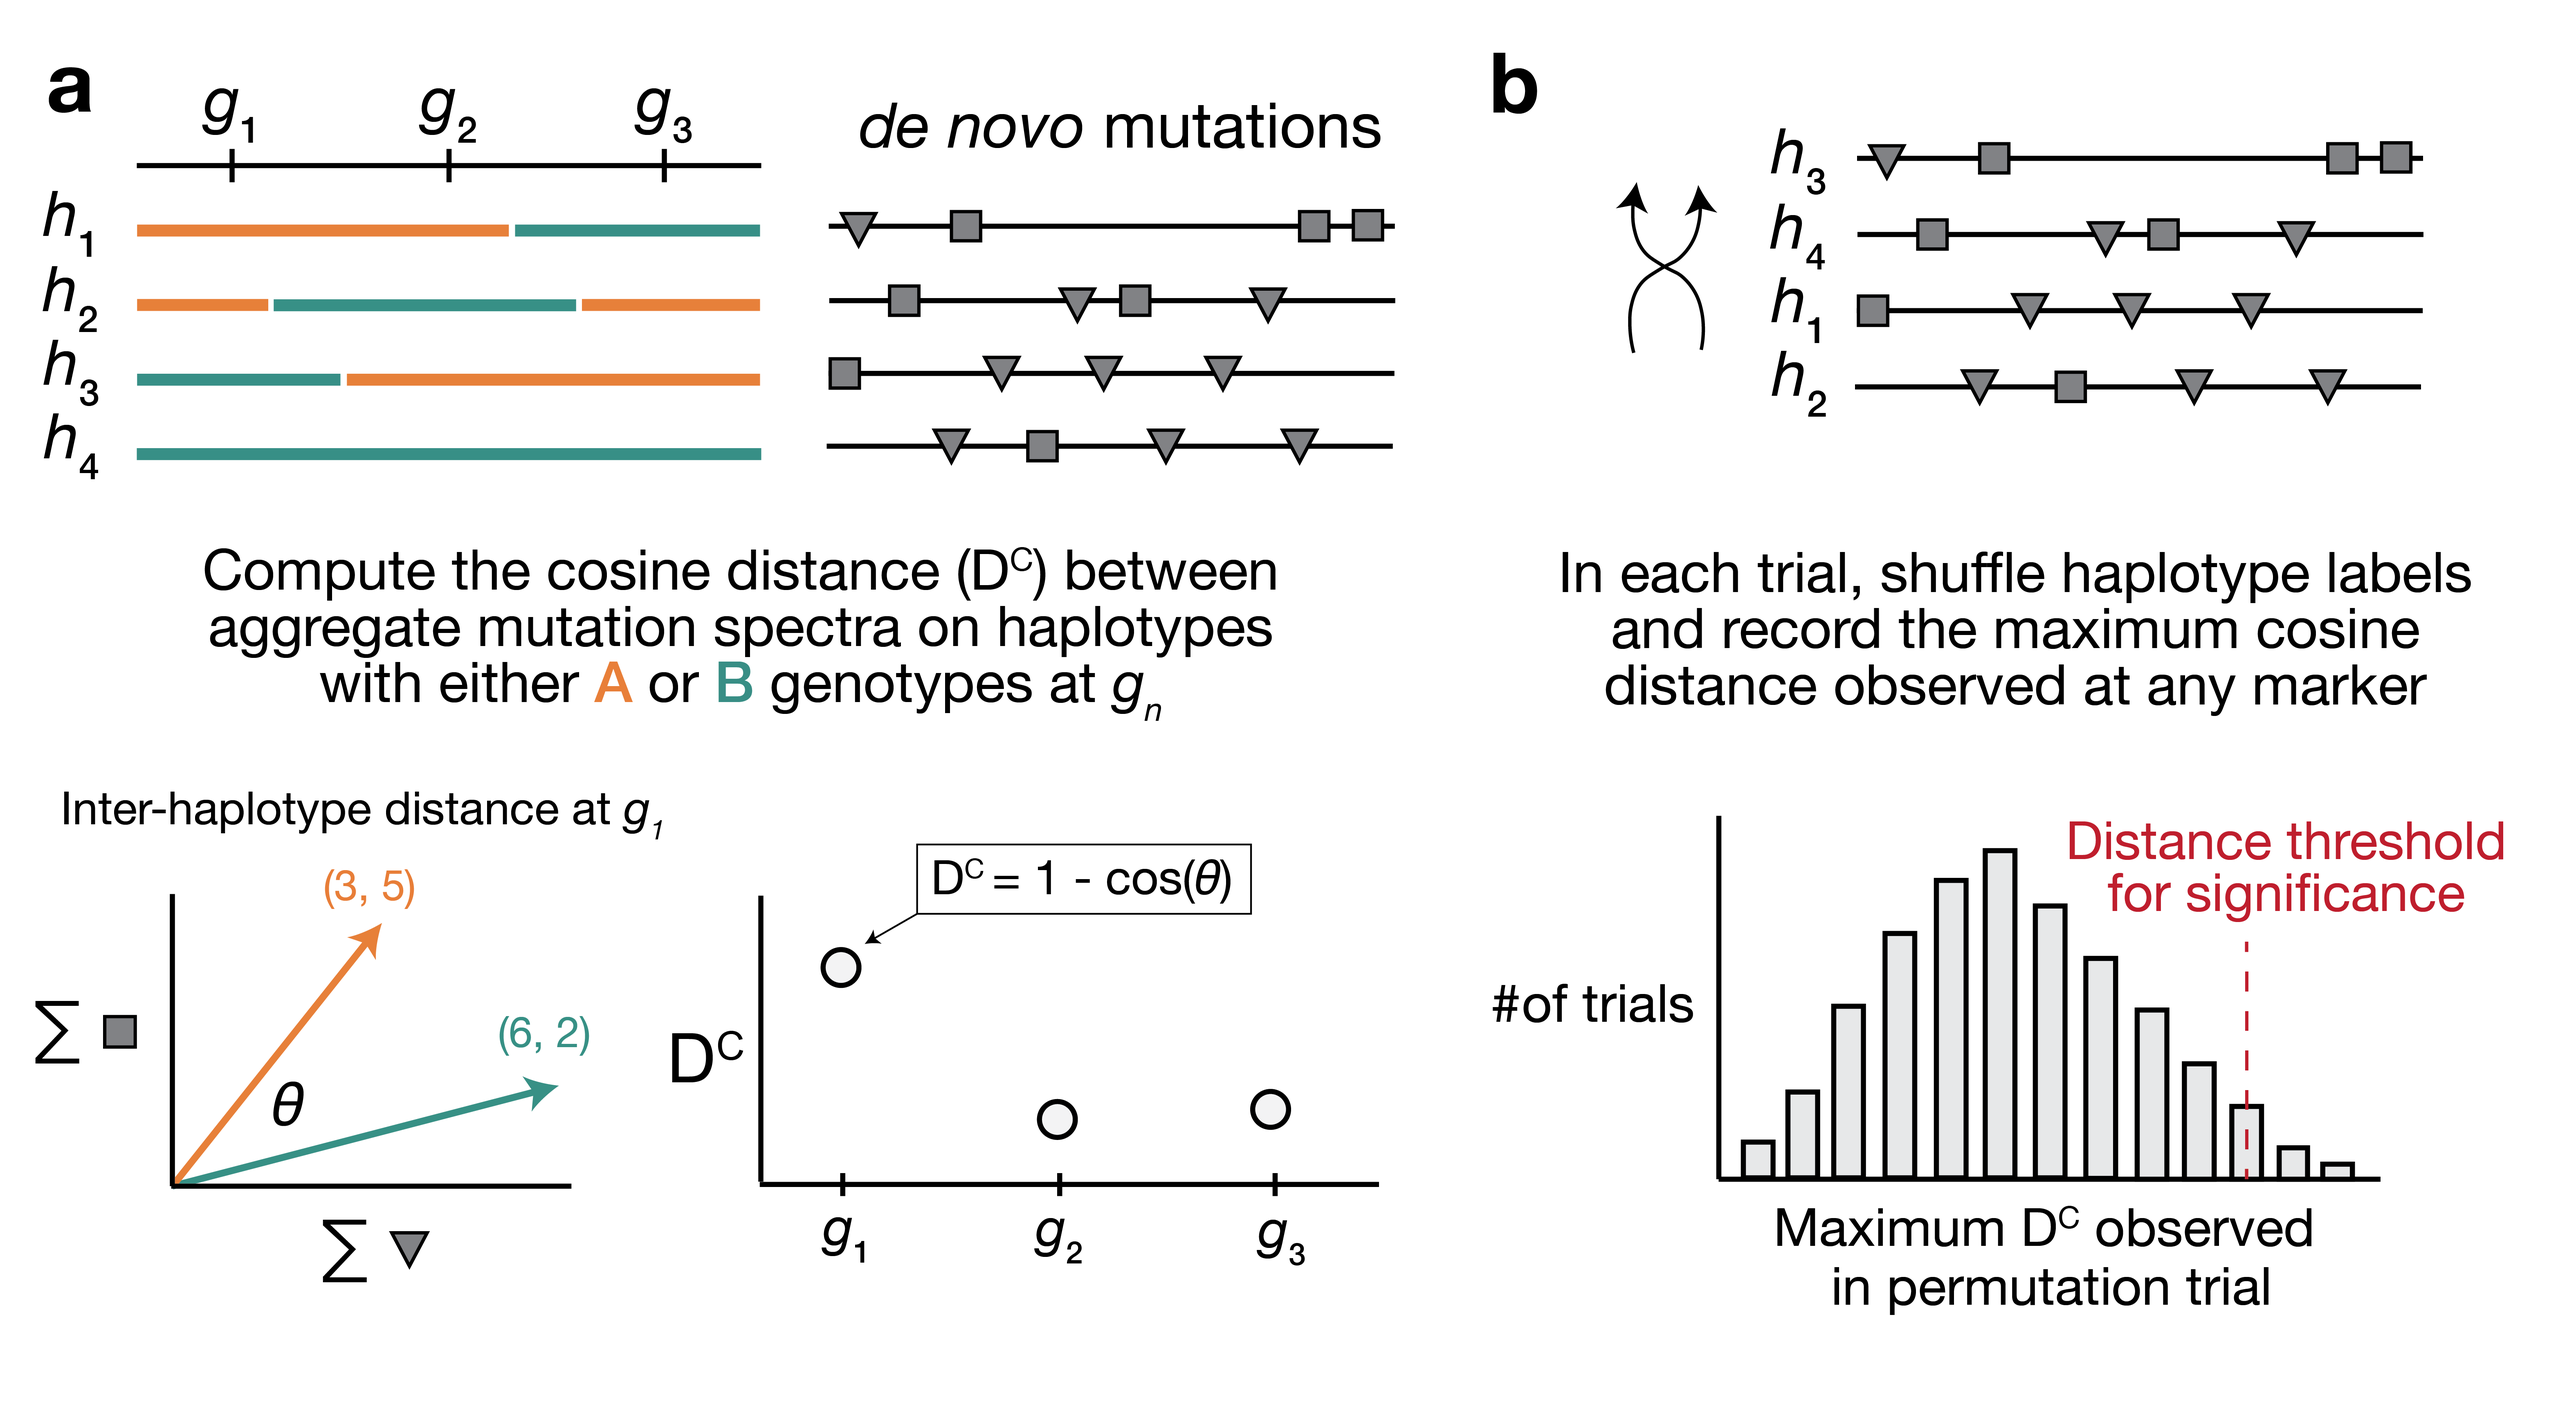
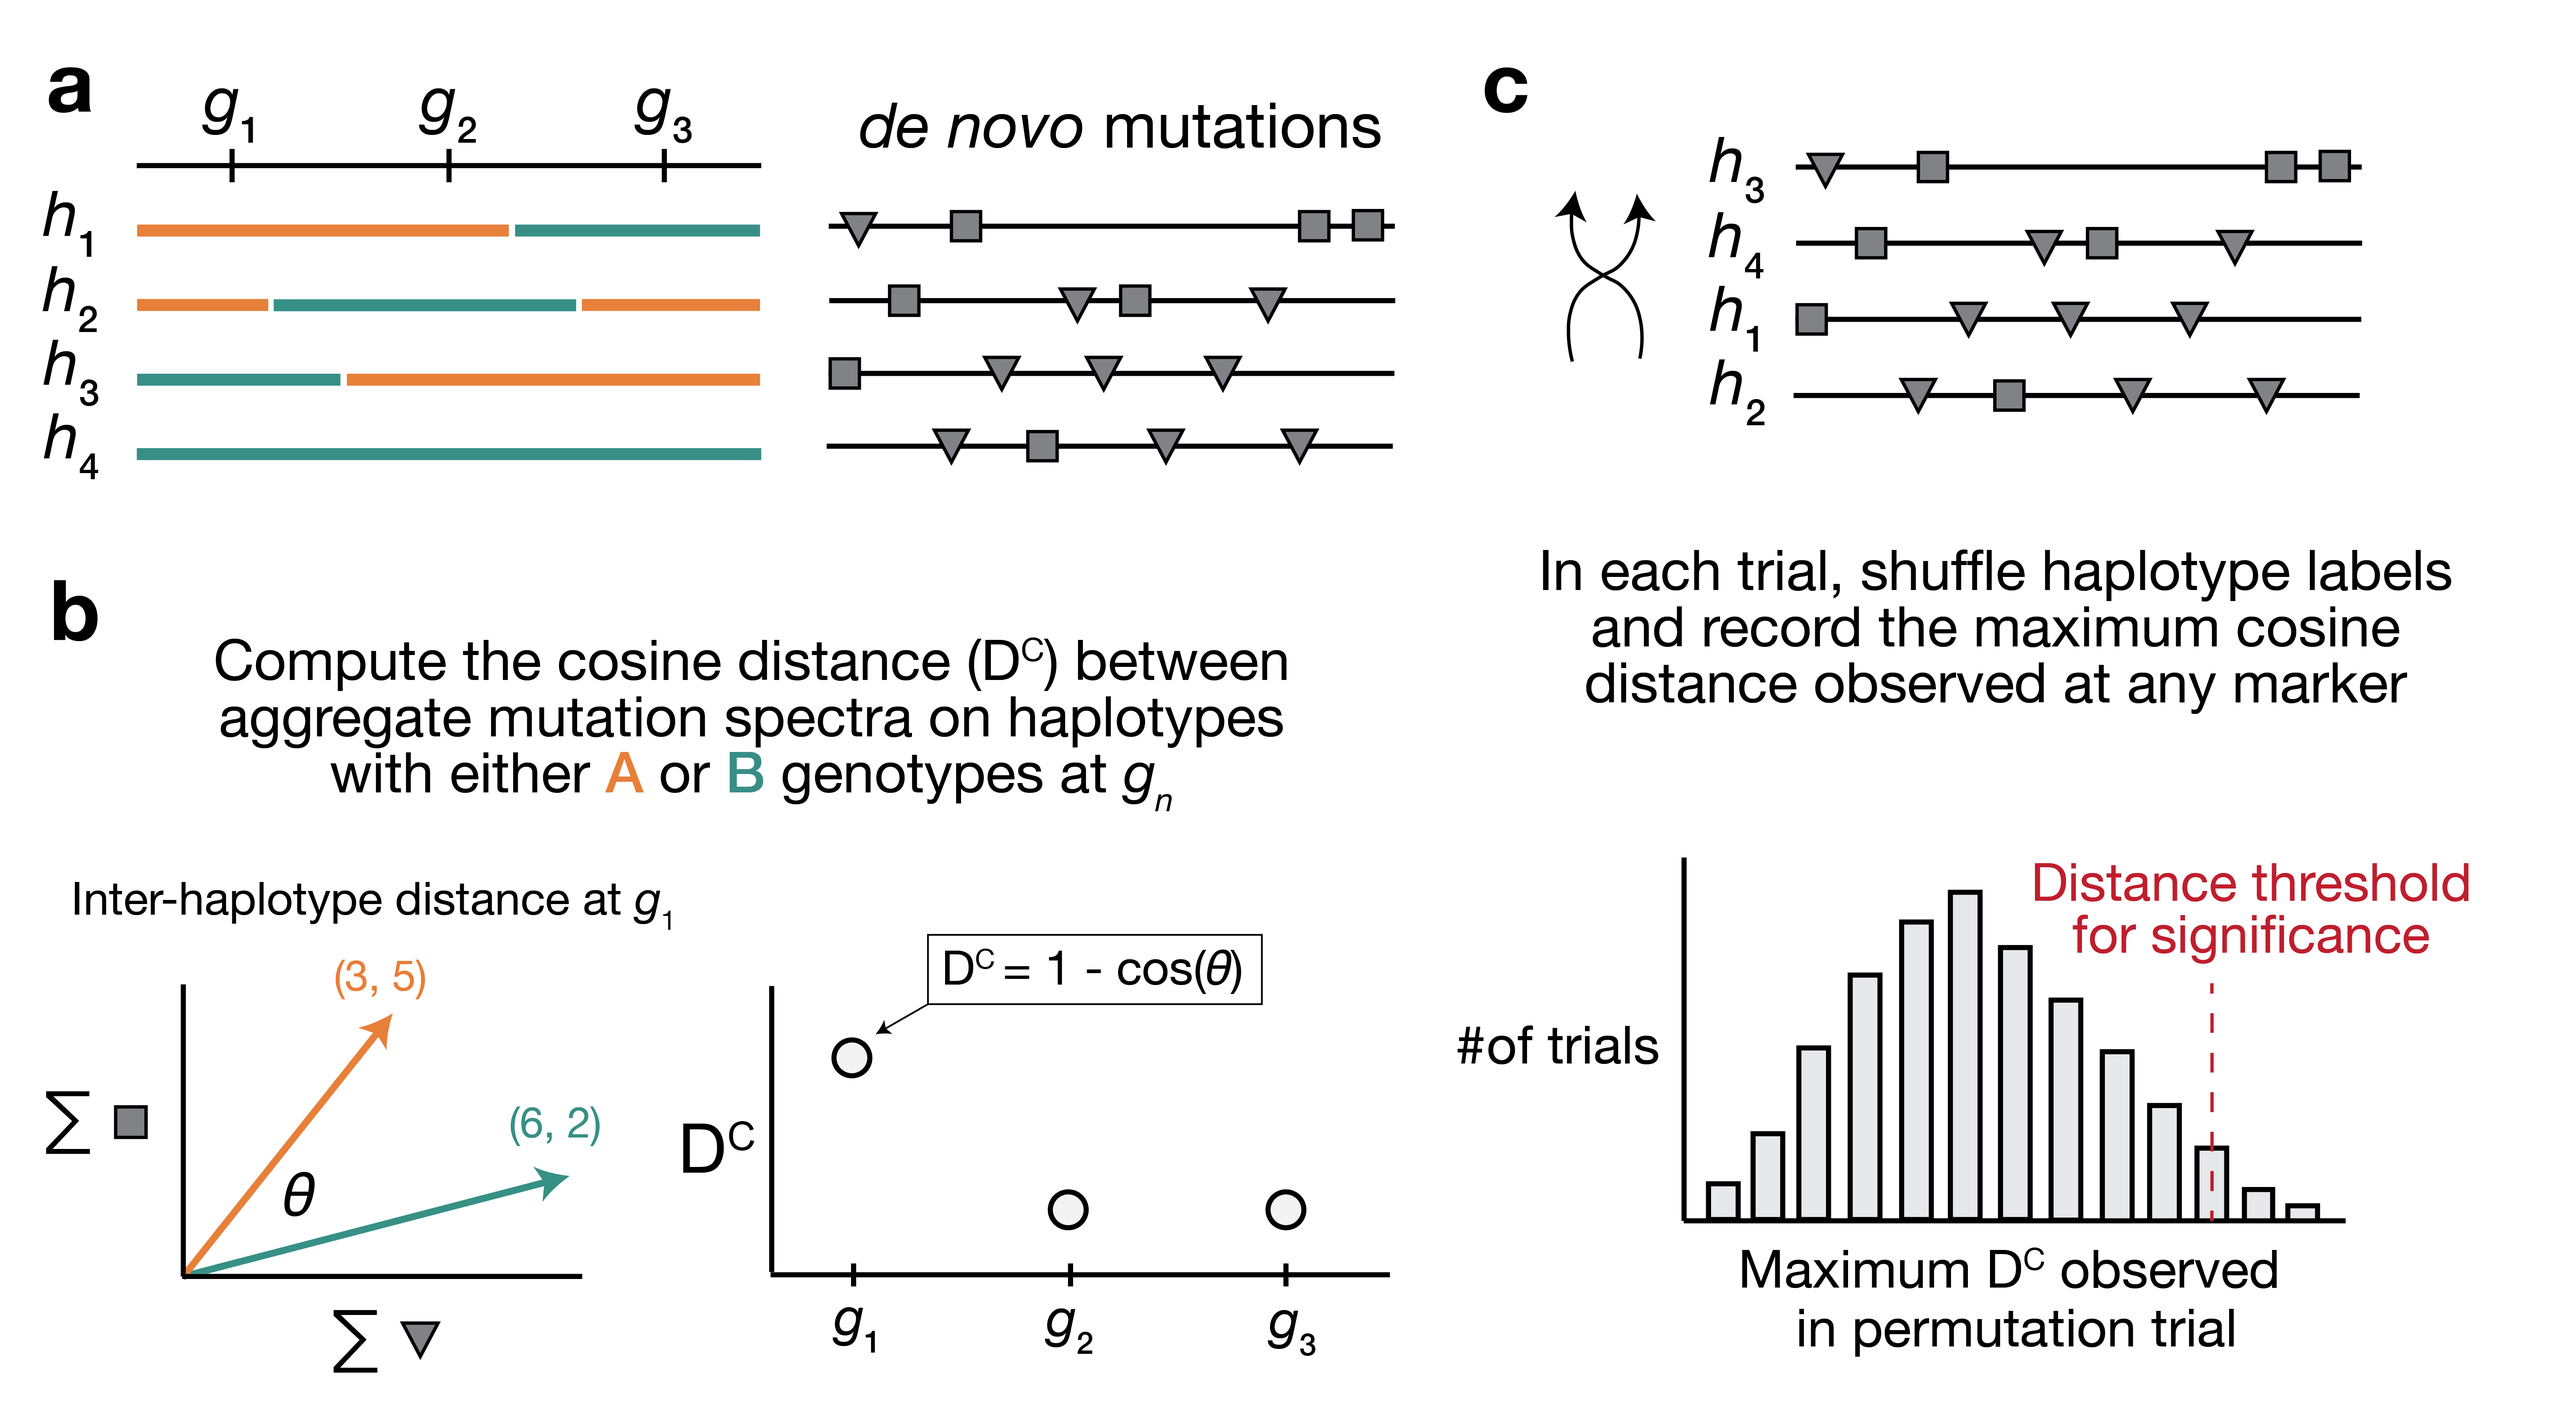
Update README title, bump distance method diagram.

diff --git a/README.md b/README.md
@@ -1,11 +1,9 @@
-# Mapping mutator alleles with inter-haplotype distance
+# Epistasis between mutator alleles contributes to germline mutation rate variability in laboratory mice
 
 [![docs](https://img.shields.io/badge/docs-latest-blue.svg)](https://quinlan-lab.github.io/proj-mutator-mapping/reference/) 
 ![pytest](https://github.com/quinlan-lab/proj-mutator-mapping/actions/workflows/tests.yaml/badge.svg)
 
 ## Summary
-
-Identify alleles that affect the mutation spectrum in bi-parental recombinant inbred crosses. 
 
 This repository includes:
 
@@ -18,7 +16,8 @@ This repository includes:
 ![](img/fig-distance-method.png)
 
 > **Overview of inter-haplotype distance method.**
-> **a)** A population of four haplotypes has been genotyped at three informative markers ($g_1$ through $g_3$); each haplotype also harbors private *de novo* germline mutations. In practice, *de novo* mutations are partitioned by $k$-mer context; for simplicity in this toy example, *de novo* mutations are simply classified into two possible mutation types (grey squares represent C>(A/T/G) mutations, while grey triangles represent A>(C/T/G) mutations). At each informative marker $g_n$, we calculate the total number of each mutation type observed on haplotypes that carry either parental allele (i.e., the aggregate mutation spectrum) using all genome-wide *de novo* mutations.  We then calculate the cosine distance between the two aggregate mutation spectra (the "inter-haplotype distance"). Cosine distance can be defined as $1 - \cos(\theta)$, where $\theta$ is the angle between two vectors; in this case, the two vectors are the two aggregate spectra. We repeat this process for every informative marker $g_n$. **b)** To assess the significance of any distance peaks in a), we perform permutation tests. In each of $N$ permutations, we shuffle the haplotype labels associated with the *de novo* mutation data, run a genome-wide distance scan, and record the maximum cosine distance encountered at any locus in the scan. Finally, we calculate the $1 - p$ percentile of the distribution of those maximum distances to obtain a genome-wide cosine distance threshold at the specified value of $p$.
+> **a)** A population of four haplotypes has been genotyped at three informative markers ($g_1$ through $g_3$); each haplotype also harbors unique *de novo* germline mutations.
+In practice, *de novo* mutations are partitioned by $k$-mer context; for simplicity in this toy example, *de novo* mutations are simply classified into two possible mutation types (grey squares represent C>(A/T/G) mutations, while grey triangles represent A>(C/T/G) mutations). **b)** At each informative marker $g_n$, we calculate the total number of each mutation type observed on haplotypes that carry either parental allele (i.e., the aggregate mutation spectrum) using all genome-wide *de novo* mutations. For example, haplotypes with *A* (orange) genotypes at $g_1$ carry a total of three "triangle" mutations and five "square" mutations, and haplotypes with *B* (green) genotypes carry a total of six triangle and two square mutations. We then calculate the cosine distance between the two aggregate mutation spectra, which we call the "inter-haplotype distance." Cosine distance can be defined as $1 - \cos(\theta)$, where $\theta$ is the angle between two vectors; in this case, the two vectors are the two aggregate spectra. We repeat this process for every informative marker $g_n$. **c)** To assess the significance of any distance peaks in b), we perform permutation tests. In each of $N$ permutations, we shuffle the haplotype labels associated with the *de novo* mutation data, run a genome-wide distance scan, and record the maximum cosine distance encountered at any locus in the scan. Finally, we calculate the $1 - p$ percentile of the distribution of those maximum distances to obtain a genome-wide cosine distance threshold at the specified value of $p$.
 
 ## Requirements
 
